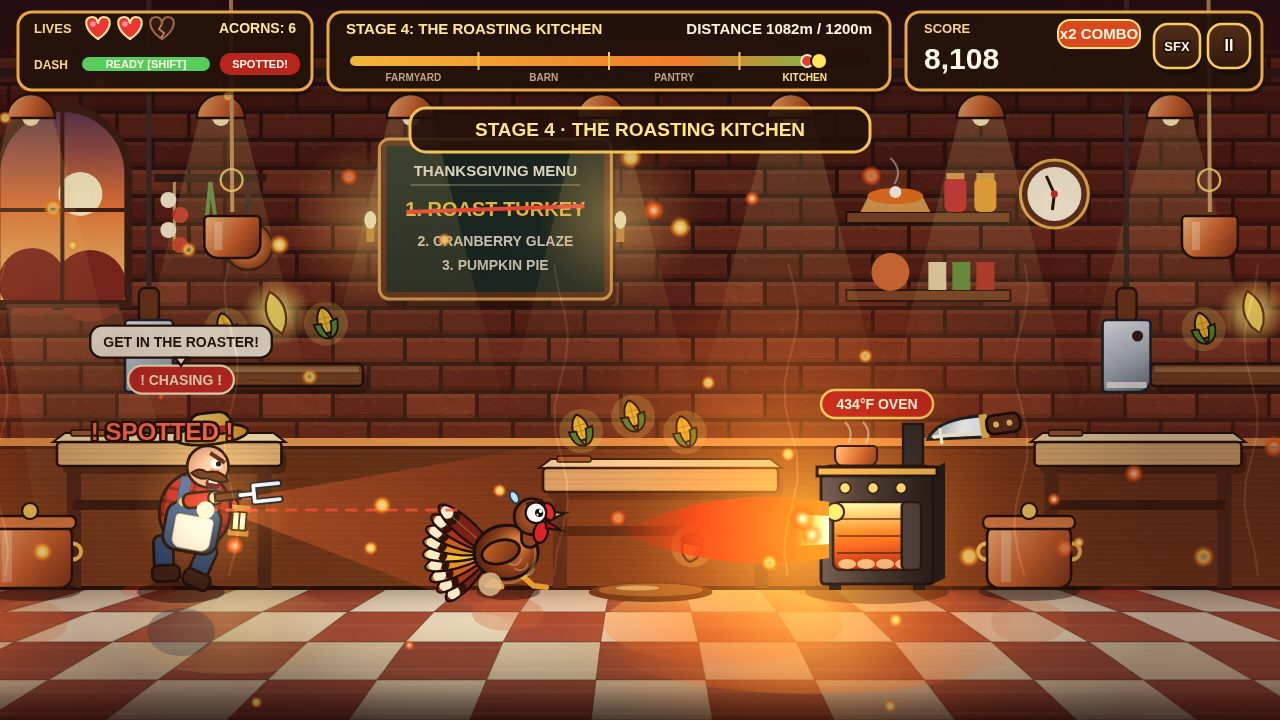
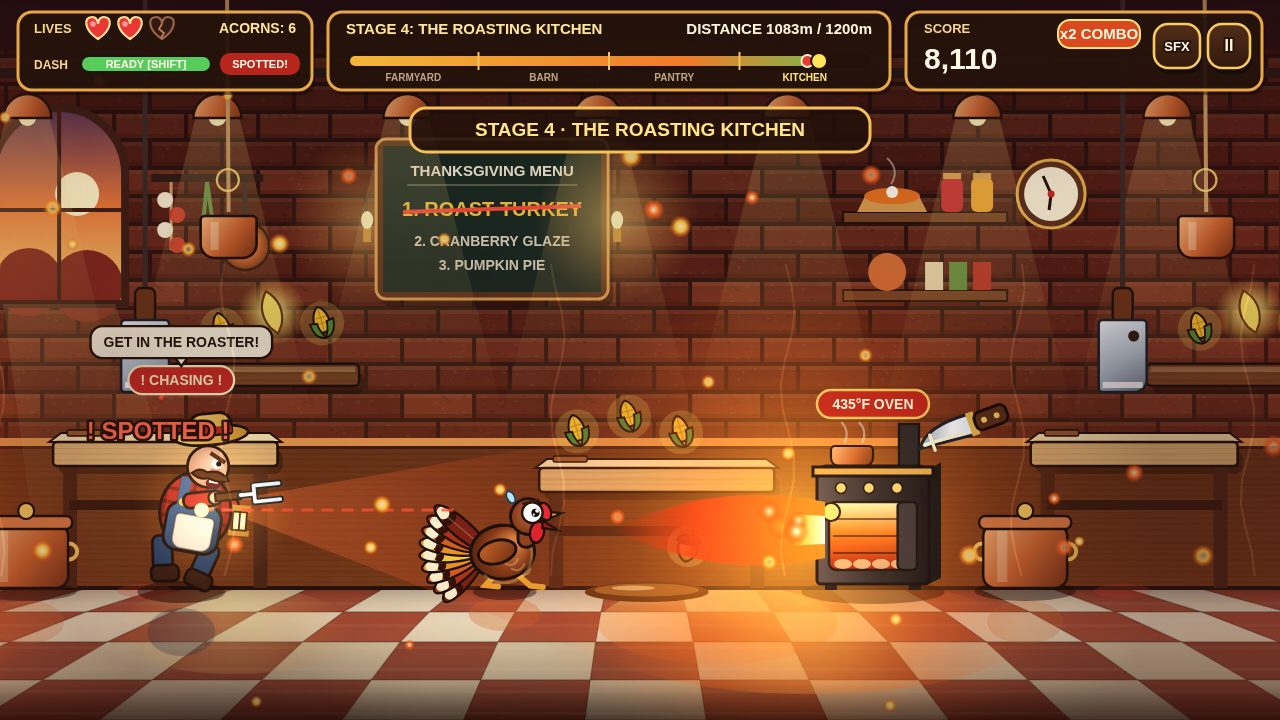
Defense round 2: barn break-out staging (turkey visible mid-dash, farmer chasing, knife in flight), kitchen knife in flight; fresh screenshots

diff --git a/game/src/shots.js b/game/src/shots.js
@@ -61,20 +61,26 @@ function setupKitchen(state, startNewRun) {
   frameCamera(state);
 }
 
-// Barn stealth: Pippin hidden in a pumpkin while Barnaby searches the bay,
-// oven preheating nearby, volley knife inbound — the ghost-evade beat.
+// Barn stealth break-out: Pippin bursts out of the hay bale mid-dash while
+// Barnaby searches the bay, oven preheating nearby, volley knife inbound —
+// the hiding beat AND the run beat in one frame, with the turkey visible
+// (the old staging hid the turkey inside the bale, so the judge's small
+// contact sheet showed only a pair of eyes where the hero should be).
 function setupBarn(state, startNewRun, input) {
   startNewRun(state, 1);
   const { turkey: t, farmer: f, course, stats } = state;
   t.x = 300 * PIXELS_PER_METER + 2400; t.y = GROUND_Y;
   let spot = null;
   for (const s of course.hidingSpots) if (s.stageIndex === 1 && Math.abs(s.x - t.x) < 900) { spot = s; break; }
-  if (spot) { t.hidden = true; t.hideSpot = spot; spot.occupied = true; t.x = spot.x + spot.w * 0.5; input?.setForceHideHeld(true); }
-  Object.assign(t, { lives: 2, acorns: 6 });
+  // Burst out of cover: turkey just right of the bale, mid-stride, feathers flying.
+  if (spot) t.x = spot.x + spot.w + 26;
+  Object.assign(t, { lives: 2, acorns: 6, vx: 260, runCycle: 1.0, panicLevel: 0.9 });
+  state.particles.spawnFeatherBurst(t.x - 30, t.y - 70, 10, 1);
+  state.particles.spawnDustPuff(t.x, GROUND_Y, 1, 6);
   Object.assign(stats, { score: 4020, combo: 3, comboTimer: 4.8 });
   Object.assign(f, { x: t.x - 420, state: 'search', stateTimer: 3.4, searchTargetX: t.x + 40, facing: 1, speech: 'HERE, TURKEY-TURKEY...', speechTimer: 9 });
   freezeHazardsForShot(course, t.x, true);
-  spawnCarvingKnife(course, t.x + 560, GROUND_Y - 200, -380, -20, 'volley');
+  spawnCarvingKnife(course, t.x + 400, GROUND_Y - 200, -380, -20, 'volley');
   state.stageBannerText = 'STAGE 2 · HARVEST BARN'; state.stageBannerTimer = 2.4;
   settleTeleport(state, 1);
   frameCamera(state);
